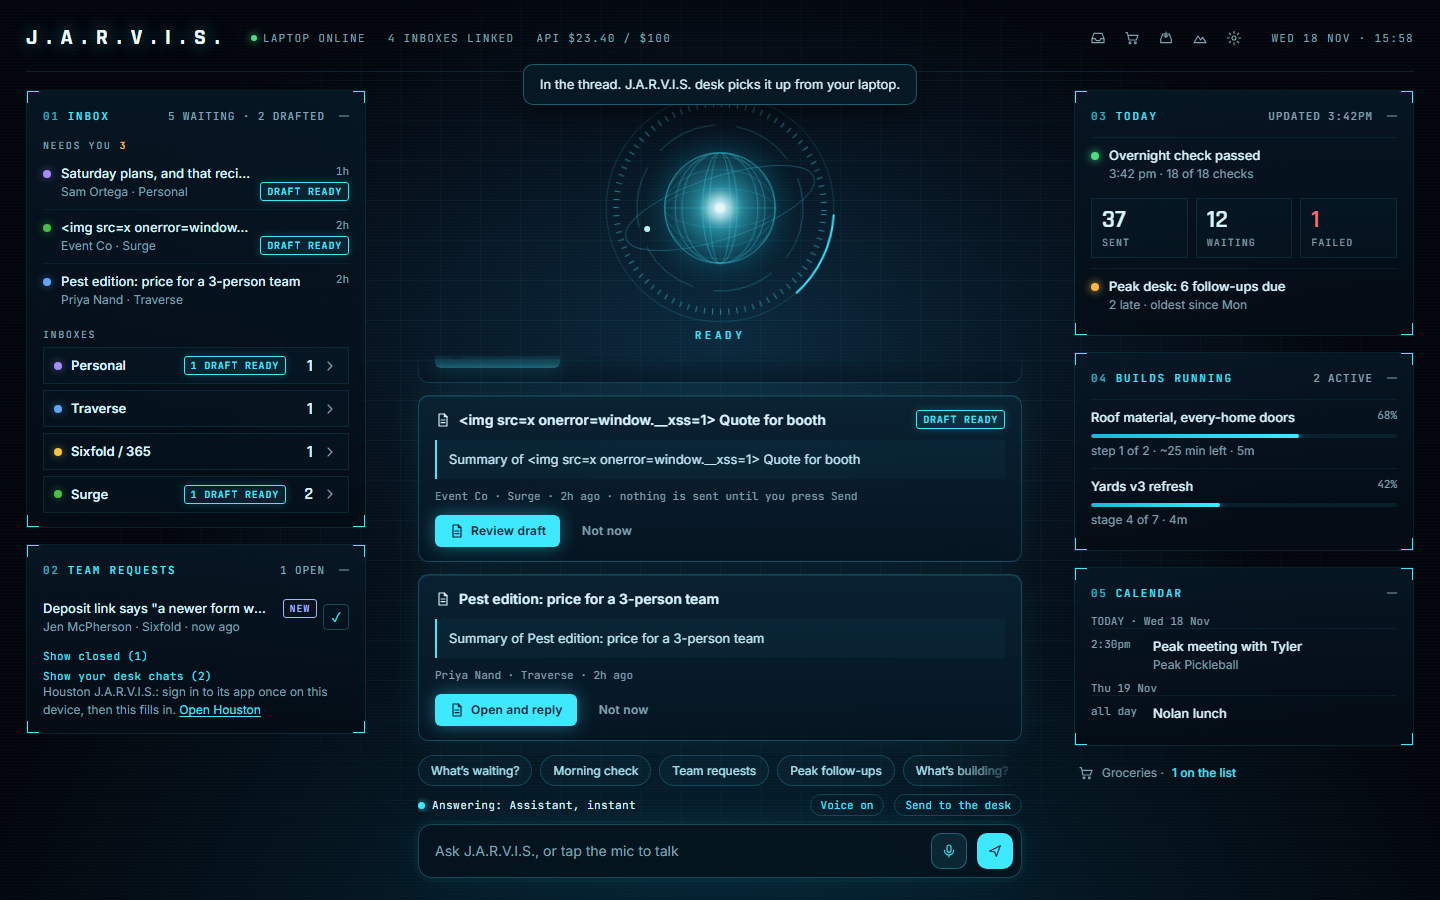
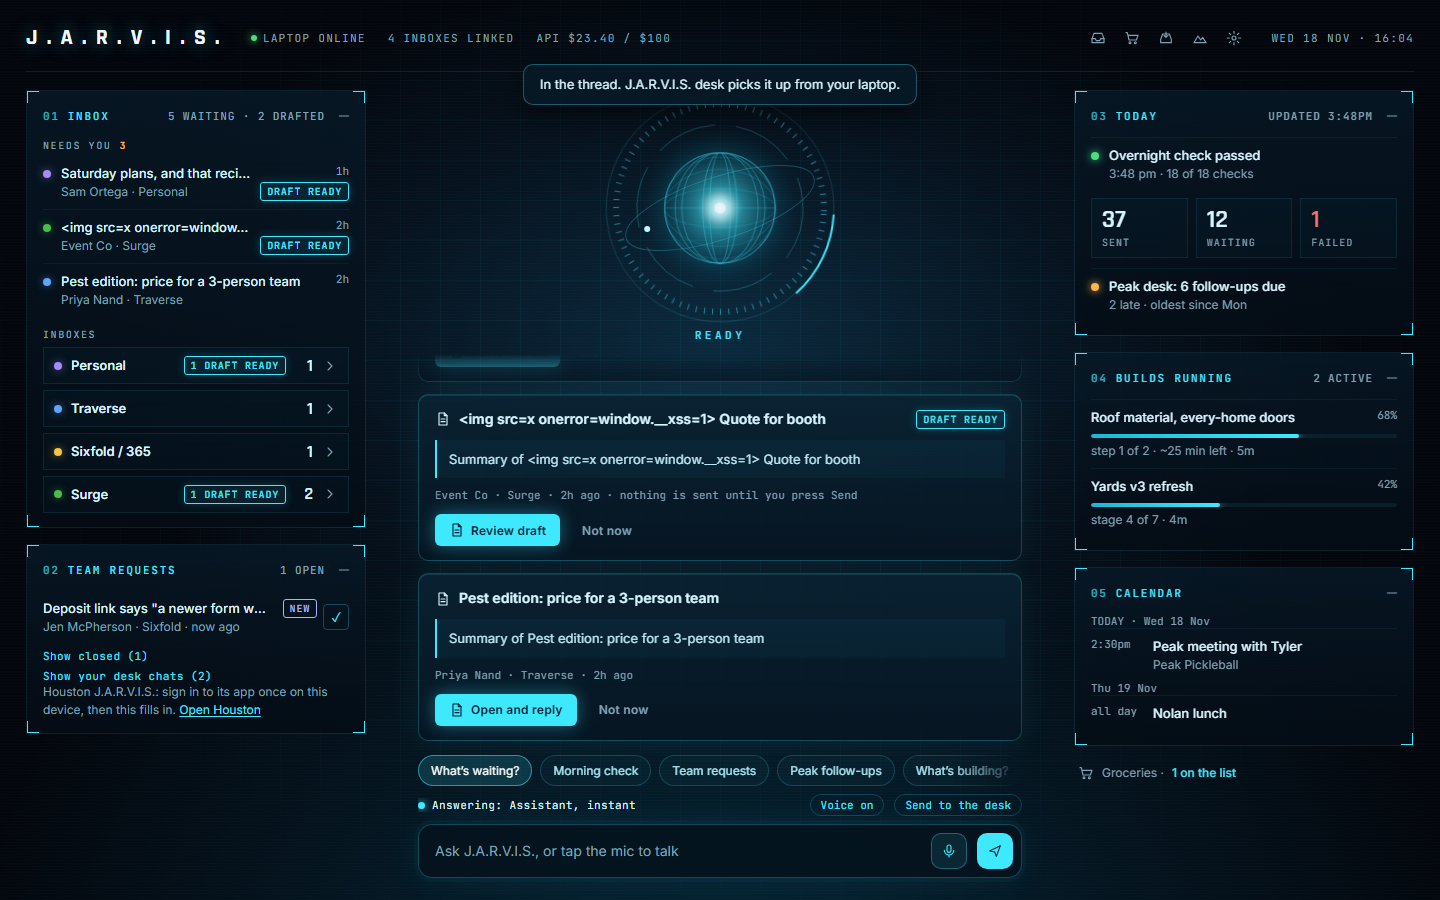
J.A.R.V.I.S. chips toggle: tapped again, the answer closes; another chip replaces the last chip answer (no stacked copies); the open chip is lit. Tests 119/119; LIVE

diff --git a/assistant/jarvis/index.html b/assistant/jarvis/index.html
@@ -122,6 +122,7 @@ button.li:hover .lt{color:#fff}
 .chips::-webkit-scrollbar{display:none}
 .chip{white-space:nowrap;border:1px solid #3ee8ff33;color:#a9e9f7;padding:6px 12px;border-radius:999px;font-size:12px;background:#3ee8ff08;flex:none}
 .chip:hover{background:#3ee8ff14}
+.chip.on{background:#3ee8ff26;border-color:#3ee8ff88;color:#fff}
 /* which brain answers: always named, plainly */
 .brain{display:flex;align-items:center;gap:10px;margin-bottom:8px;font:11px "JetBrains Mono",monospace;letter-spacing:.04em;color:var(--mut);min-width:0}
 .brain .bl{display:flex;align-items:center;gap:7px;color:var(--ink);min-width:0;overflow:hidden;text-overflow:ellipsis;white-space:nowrap}
@@ -569,12 +570,28 @@ button.li:hover .lt{color:#fff}
     add(t, vw, el('span', 'clock mono', nowLine()));
     return t;
   }
+  /* 18 Nov (Matthew: "i clicked it again assumed itd close it but then it just made multiple replicas"): a chip toggles its answer. Tapped
+     again while its answer is showing, the answer closes; another chip's answer replaces the last chip answer instead of stacking up. */
+  function chipBtn(label, fn) {
+    var b = btn(label, null, 'chip', function () {
+      var last = S.chipAns;
+      if (last) { last.nodes.forEach(function (n) { if (n.parentNode) n.parentNode.removeChild(n); }); S.chipAns = null; hush(); }
+      document.querySelectorAll('.chip.on').forEach(function (x) { x.classList.remove('on'); x.setAttribute('aria-pressed', 'false'); });
+      if (last && last.label === label) { setState('idle'); return; }   /* the same chip again: closed */
+      var before = chatLog ? chatLog.children.length : 0;
+      fn();
+      var nodes = chatLog ? [].slice.call(chatLog.children, before) : [];
+      if (nodes.length) { S.chipAns = { label: label, nodes: nodes }; b.classList.add('on'); b.setAttribute('aria-pressed', 'true'); }
+    });
+    if (S.chipAns && S.chipAns.label === label && S.chipAns.nodes.some(function (n) { return n.parentNode; })) { b.classList.add('on'); b.setAttribute('aria-pressed', 'true'); }
+    return b;
+  }
   function nowLine() { var d = new Date(), h = d.getHours(), m = d.getMinutes(); return DAYS[d.getDay()] + ' ' + d.getDate() + ' ' + MON[d.getMonth()] + ' · ' + (h < 10 ? '0' : '') + h + ':' + (m < 10 ? '0' : '') + m; }
   function cmd() {
     var w = el('div', 'cmd');
     var ch = el('div', 'chips');
     [['What’s waiting?', localWaiting], ['Morning check', localCheck], ['Team requests', localTeam], ['Peak follow-ups', localPeak], ['What’s building?', localBuilds], ['Add to groceries…', function () { field.value = 'Add  to groceries'; field.focus(); field.setSelectionRange(4, 4); if (S.brain === 'desk') setBrain('assistant'); }]]
-      .forEach(function (c) { ch.appendChild(btn(c[0], null, 'chip', c[1])); });
+      .forEach(function (c) { ch.appendChild(chipBtn(c[0], c[1])); });
     brainBar = el('div', 'brain'); brainBar.id = 'brain';
     var bar = el('form', 'cmdbar'); bar.setAttribute('autocomplete', 'off');
     field = el('input'); field.type = 'text'; field.id = 'ask'; field.setAttribute('aria-label', 'Ask J.A.R.V.I.S.'); field.setAttribute('enterkeyhint', 'send');
